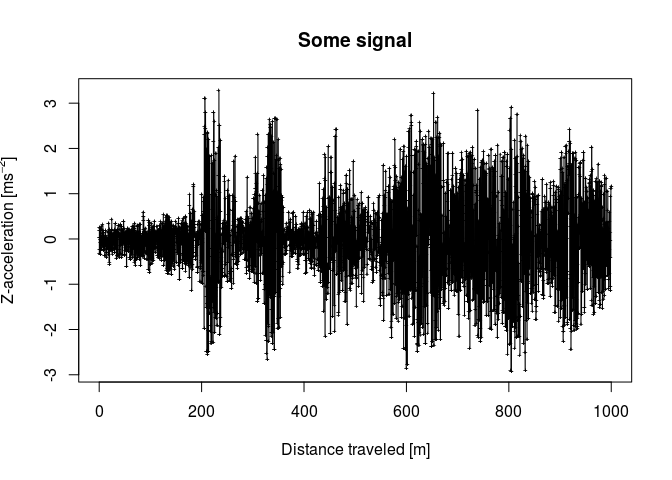
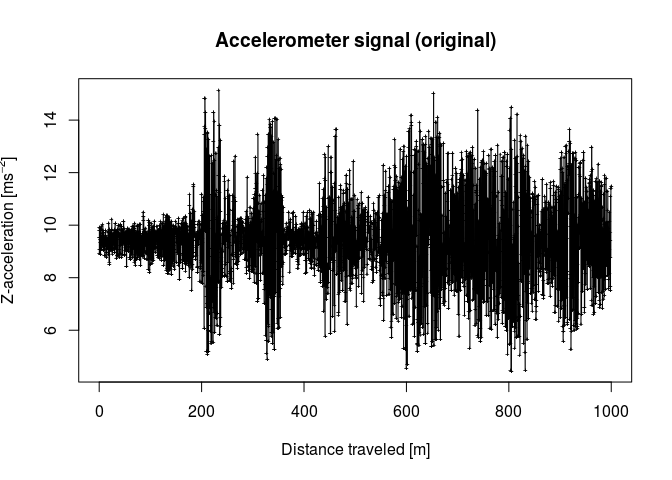
Added diagram showing the difference between the original accelerometer signal and zscore-normalized signal.

diff --git a/inst/RoadFeatures.md b/inst/RoadFeatures.md
@@ -41,17 +41,30 @@ signal <- data.frame(
 #      sapply(rnorm(num_samples), function(x){ifelse(x > 1.8, 1, NA)}) # random gaps
 )
 load("../inst/example_data/2016_01_16_drive_k3535_acc_z.rda")
-drive_k3535_acc_z$acc_z %>% head(num_samples) %>% scale -> signal$accZ
-
-signal <- na.trim(signal)
+drive_k3535_acc_z$acc_z %>% head(num_samples) -> signal$accZ_orig
 
 plot(signal$dist_meters, signal$accZ, type = "o", pch = "+", cex = .5,
-     main = "Some signal",
+     main = "Accelerometer signal (original)",
      xlab = "Distance traveled [m]",
      ylab = expression( paste("Z-acceleration [", m * s ^ -2, "]") ))
 ```
 
 ![](RoadFeatures_files/figure-html/unnamed-chunk-2-1.png)<!-- -->
+
+```r
+# z-score normalization (subtracting mean and dividing by sd)
+signal$accZ_orig %>% scale -> signal$accZ
+
+# removing leading and trailing NAs in the whole matrix
+signal %>% na.trim -> signal
+
+plot(signal$dist_meters, signal$accZ, type = "o", pch = "+", cex = .5,
+     main = "Accelerometer signal (z-score normalized)",
+     xlab = "Distance traveled [m]",
+     ylab = expression( paste("Z-acceleration [", m * s ^ -2, "]") ))
+```
+
+![](RoadFeatures_files/figure-html/unnamed-chunk-2-2.png)<!-- -->
 
 Now, we look at the gaps closely:
 
